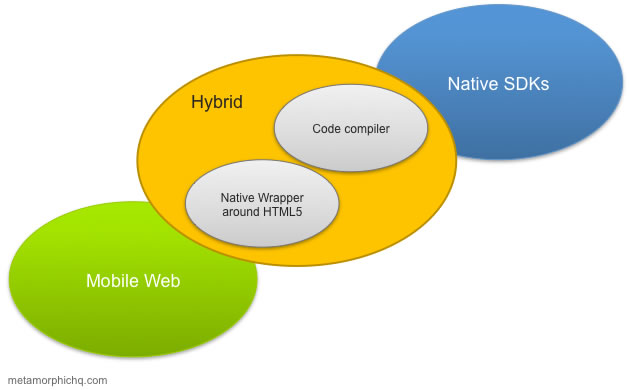
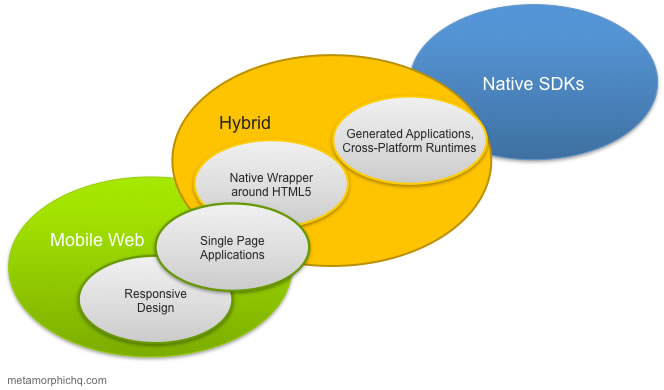
add diagram to mobile dev strategy I

diff --git a/_posts/2013-05-05-choosing-a-mobile-development-strategy.md b/_posts/2013-05-05-choosing-a-mobile-development-strategy.md
@@ -19,6 +19,8 @@ The question then arises, what is the optimum strategy and set of technologies f
 Unfortunately, the
 choice is not clear cut. Over the next few posts, I will outline the pros and cons of each of the major options.
 
+![Mobile Development Options](/img/mobile_options.jpg)
+
 <ul>
   <li>
     <p>
@@ -37,15 +39,21 @@ choice is not clear cut. Over the next few posts, I will outline the pros and co
     </p>
   </li>
   <li>
-    <p>
-      <a href="#">Hybrid Applications</a> - using a combination of web and native development. An example is an application developed
-      using PhoneGap (aka Apache Cordova).
-    </p>
-  </li>
-  <li>
-    <p>
-      <a href="#">Generated Applications and Cross-Platform Runtimes</a> - an application developed in a non-native language and converted to a native executable.
-    </p>
+    <p>Hybrid Architecture</p>
+    <ul>
+      <li>
+        <p>
+          <a href="#">HTML5 Container</a> - a native container for HTML content and JavaScript, which enables
+          both native and web application layers, and provides a bridge to native device capabilities. An example is
+          an application developed using PhoneGap (aka Apache Cordova).
+        </p>
+      </li>
+      <li>
+        <p>
+          <a href="#">Generated Applications and Cross-Platform Runtimes</a> - an application developed in a non-native language and converted to a native executable.
+        </p>
+      </li>
+    </ul>
   </li>
 </ul>
 
